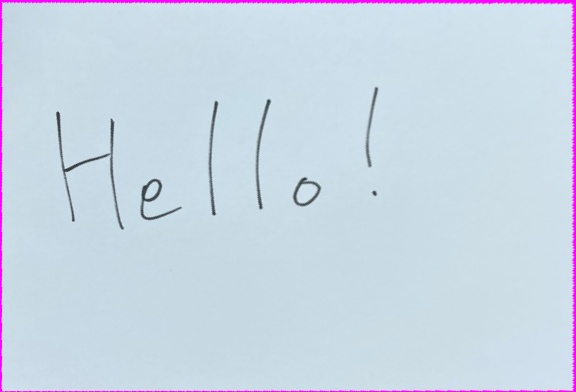
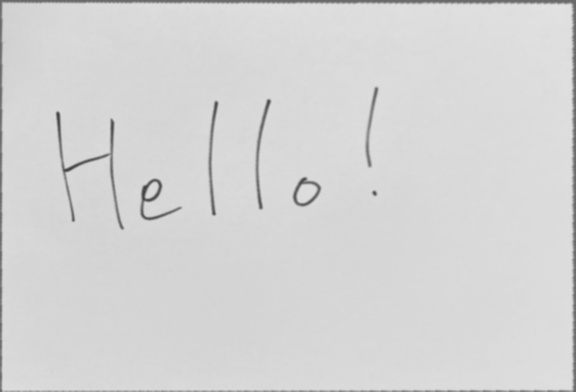
tess_correction
TESS_PREFIX environment variables is required with ~/tessdata directory. Download.png letters are recognized, while handwritten "Hello" is not yet recognized.

diff --git a/main.cpp b/main.cpp
@@ -59,6 +59,8 @@ int main() {
 	Mat trans = getPerspectiveTransform(square, warp_square);
 	warpPerspective(img, warp_img, trans, warp_size);
 	imshow("warping", warp_img);
+	cvtColor(warp_img, warp_img, COLOR_BGR2GRAY);
+	GaussianBlur(warp_img, warp_img, Size(3, 3), 0);
 	imwrite("warp_img.jpg", warp_img);
 
 	char* outText;
